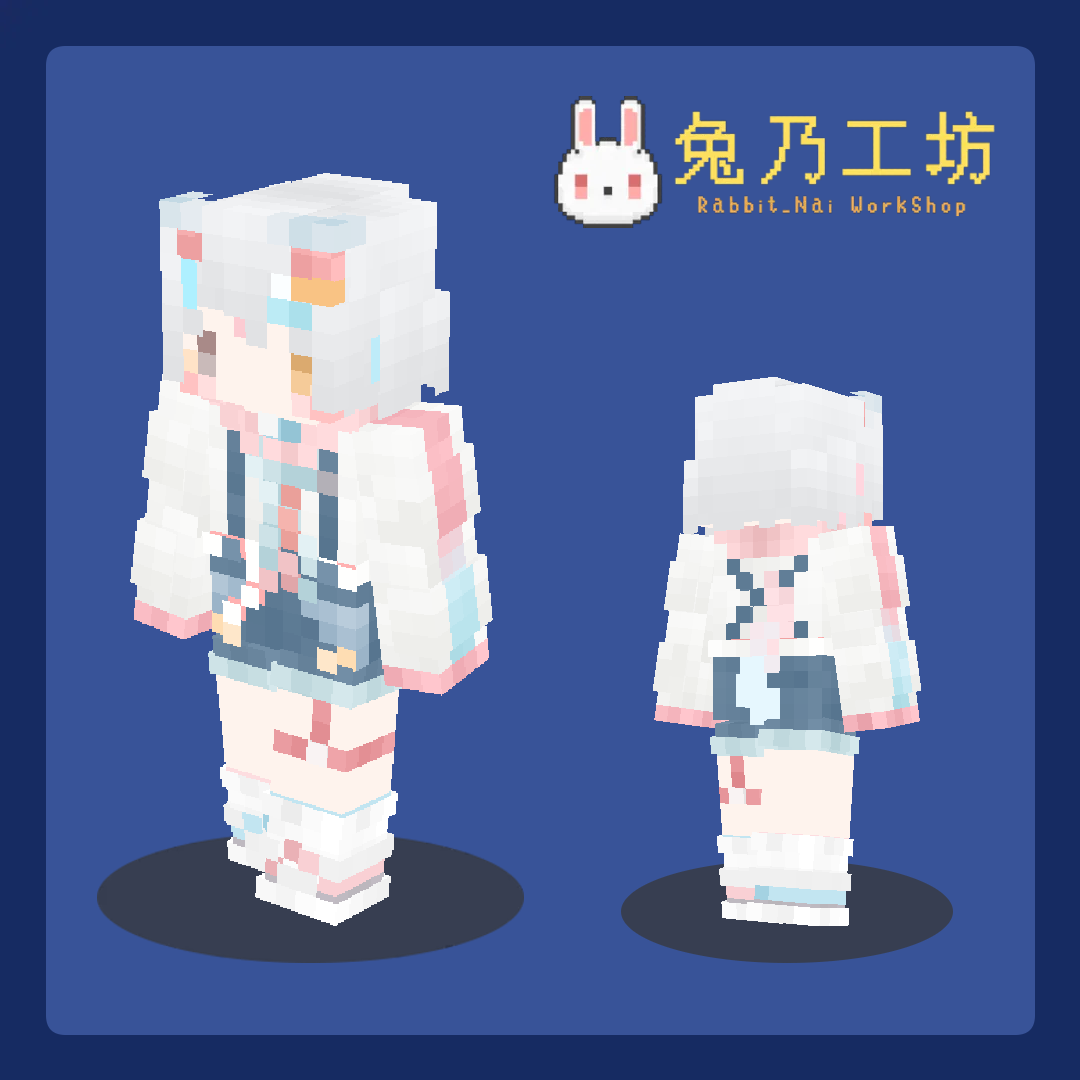
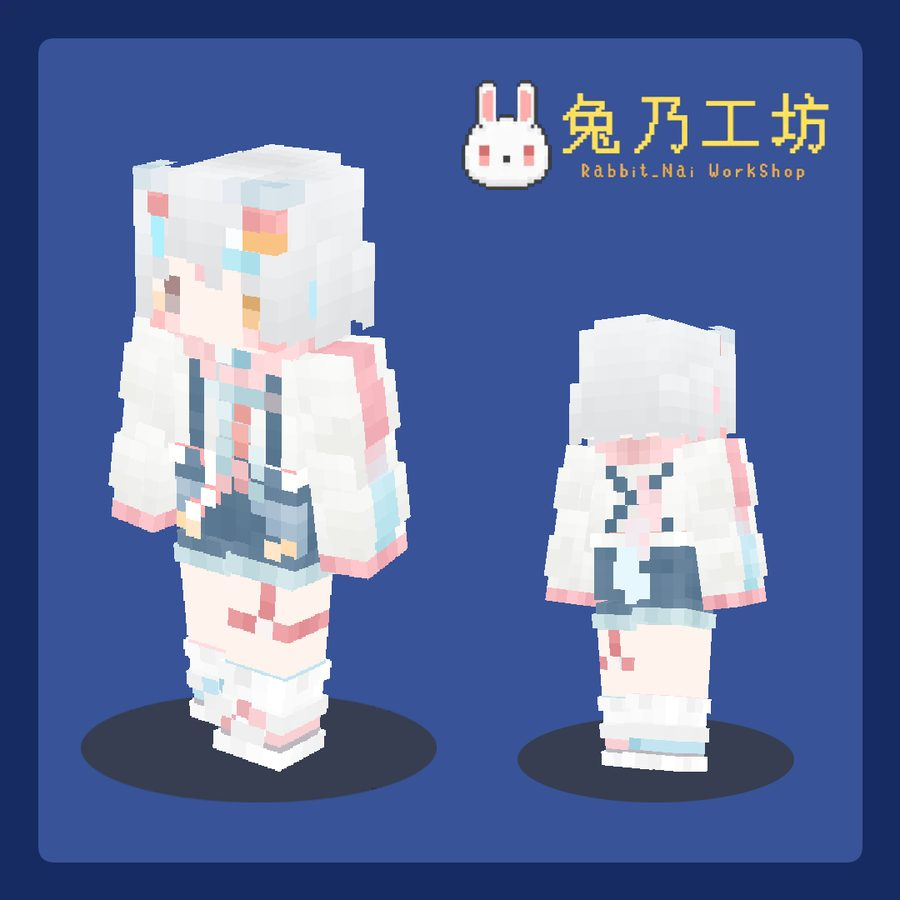
壓縮圖片、移除未使用圖片、加入延遲載入與圖片尺寸屬性

Changed region(s): [[0.6222, 0.0933, 0.9333, 0.2178]]

diff --git a/model.html b/model.html
@@ -28,7 +28,7 @@
 
 		<meta charset="utf-8" />
 		<meta name="viewport" content="width=device-width, initial-scale=1" />
-		<link rel="stylesheet" href="assets/css/main.css?v=20261102b" />
+		<link rel="stylesheet" href="assets/css/main.css?v=20261102d" />
 		<noscript><link rel="stylesheet" href="assets/css/noscript.css" /></noscript>
 		
 		<!-- Google tag (gtag.js) -->
@@ -70,14 +70,14 @@
 									<li><a href="#two" class="button small scrolly">常見問題</a></li>
 								</ul>
 								<h2> 作品展示</h2><hr>
-								<img alt="Minecraft Model 作品 1" src="images/model/preview1.jpg" width="350">
-								<img alt="Minecraft Model 作品 2" src="images/model/preview2.jpg" width="350">
-								<img alt="Minecraft Model 作品 3" src="images/model/preview3.jpg" width="350">
-								<img alt="Minecraft Model 作品 4" src="images/model/preview4.jpg" width="350">
-								<img alt="Minecraft Model 作品 5" src="images/model/preview5.jpg" width="350">
-								<img alt="Minecraft Model 作品 6" src="images/model/preview6.jpg" width="350">
-								<img alt="Minecraft Model 作品 7" src="images/model/preview7.jpg" width="350">
-								<img alt="Minecraft Model 作品 8" src="images/model/preview8.jpg" width="350">
+								<img alt="Minecraft Model 作品 1" src="images/model/preview1.jpg" width="350" height="352">
+								<img alt="Minecraft Model 作品 2" src="images/model/preview2.jpg" width="350" height="352">
+								<img alt="Minecraft Model 作品 3" src="images/model/preview3.jpg" width="350" height="352">
+								<img loading="lazy" decoding="async" alt="Minecraft Model 作品 4" src="images/model/preview4.jpg" width="350" height="352">
+								<img loading="lazy" decoding="async" alt="Minecraft Model 作品 5" src="images/model/preview5.jpg" width="350" height="352">
+								<img loading="lazy" decoding="async" alt="Minecraft Model 作品 6" src="images/model/preview6.jpg" width="350" height="352">
+								<img loading="lazy" decoding="async" alt="Minecraft Model 作品 7" src="images/model/preview7.jpg" width="350" height="352">
+								<img loading="lazy" decoding="async" alt="Minecraft Model 作品 8" src="images/model/preview8.jpg" width="350" height="352">
 							</div><hr>
 					
 					<!-- One -->
@@ -98,21 +98,21 @@
 								</thead>
 								<tbody>
 									<tr>
-										<td><img alt="Model 價格參考:像素" src="images/model/preview9.jpg" width="300" data-position="center center"></td>
+										<td><img loading="lazy" decoding="async" alt="Model 價格參考:像素" src="images/model/preview9.jpg" width="300" height="300" data-position="center center"></td>
 
 										<td>像素 </td>
 										<td> 200 ~ 400 </td>
-										<td><img alt="Model 價格參考:普通" src="images/model/preview10.jpg" width="300" data-position="center center" ></td>
+										<td><img loading="lazy" decoding="async" alt="Model 價格參考:普通" src="images/model/preview10.jpg" width="300" height="300" data-position="center center" ></td>
  
 										<td>普通 </td>
 										<td> 400 ~ 700 </td>
 									</tr>
 									<tr>
-										<td><img alt="Model 價格參考:高階" src="images/model/preview8.jpg" width="300" data-position="center center" ></td>
+										<td><img loading="lazy" decoding="async" alt="Model 價格參考:高階" src="images/model/preview8.jpg" width="300" height="302" data-position="center center" ></td>
 
 										<td>高階 </td>
 										<td> 700 ~ 1000 </td>
-										<td><img alt="Model 價格參考:仿現實" src="images/model/preview11.jpg" width="300" data-position="center center" ></td>
+										<td><img loading="lazy" decoding="async" alt="Model 價格參考:仿現實" src="images/model/preview11.jpg" width="300" height="300" data-position="center center" ></td>
 										
 										<td>仿現實 </td>
 										<td> 1000 ~ 1500</td>

diff --git a/skin.html b/skin.html
@@ -28,7 +28,7 @@
 
 		<meta charset="utf-8" />
 		<meta name="viewport" content="width=device-width, initial-scale=1" />
-		<link rel="stylesheet" href="assets/css/main.css?v=20261102b" />
+		<link rel="stylesheet" href="assets/css/main.css?v=20261102d" />
 		<noscript><link rel="stylesheet" href="assets/css/noscript.css" /></noscript>
 		
 		<!-- Google tag (gtag.js) -->
@@ -71,18 +71,18 @@
 									<li><a href="#two" class="button small scrolly">常見問題</a></li>
 								</ul>
 								<h2>作品展示</h2><hr>
-								<img alt="Minecraft Skin 作品 1" src="images/skin/preview1.jpg" width="350">
-								<img alt="Minecraft Skin 作品 2" src="images/skin/preview2.jpg" width="350">
-								<img alt="Minecraft Skin 作品 3" src="images/skin/preview3.jpg" width="350">
-								<img alt="Minecraft Skin 作品 4" src="images/skin/preview4.jpg" width="350">
-								<img alt="Minecraft Skin 作品 5" src="images/skin/preview5.jpg" width="350">
-								<img alt="Minecraft Skin 作品 6" src="images/skin/preview6.jpg" width="350">
-								<img alt="Minecraft Skin 作品 7" src="images/skin/preview7.jpg" width="350">
-								<img alt="Minecraft Skin 作品 8" src="images/skin/preview8.jpg" width="350">
-								<img alt="Minecraft Skin 作品 9" src="images/skin/preview9.jpg" width="350">
-								<img alt="Minecraft Skin 作品 10" src="images/skin/preview10.jpg" width="350">
-								<img alt="Minecraft Skin 作品 11" src="images/skin/preview11.jpg" width="350">
-								<img alt="Minecraft Skin 作品 12" src="images/skin/preview12.jpg" width="350">
+								<img alt="Minecraft Skin 作品 1" src="images/skin/preview1.jpg" width="350" height="350">
+								<img alt="Minecraft Skin 作品 2" src="images/skin/preview2.jpg" width="350" height="350">
+								<img alt="Minecraft Skin 作品 3" src="images/skin/preview3.jpg" width="350" height="350">
+								<img loading="lazy" decoding="async" alt="Minecraft Skin 作品 4" src="images/skin/preview4.jpg" width="350" height="350">
+								<img loading="lazy" decoding="async" alt="Minecraft Skin 作品 5" src="images/skin/preview5.jpg" width="350" height="350">
+								<img loading="lazy" decoding="async" alt="Minecraft Skin 作品 6" src="images/skin/preview6.jpg" width="350" height="350">
+								<img loading="lazy" decoding="async" alt="Minecraft Skin 作品 7" src="images/skin/preview7.jpg" width="350" height="350">
+								<img loading="lazy" decoding="async" alt="Minecraft Skin 作品 8" src="images/skin/preview8.jpg" width="350" height="350">
+								<img loading="lazy" decoding="async" alt="Minecraft Skin 作品 9" src="images/skin/preview9.jpg" width="350" height="350">
+								<img loading="lazy" decoding="async" alt="Minecraft Skin 作品 10" src="images/skin/preview10.jpg" width="350" height="350">
+								<img loading="lazy" decoding="async" alt="Minecraft Skin 作品 11" src="images/skin/preview11.jpg" width="350" height="350">
+								<img loading="lazy" decoding="async" alt="Minecraft Skin 作品 12" src="images/skin/preview12.jpg" width="350" height="350">
 							</div><hr>
 					
 					<!-- One -->

diff --git a/assets/css/main.css b/assets/css/main.css
@@ -3878,7 +3878,7 @@ input, select, textarea {
 	#intro {
 		background-attachment: fixed;
 		background-color: #212c4d;
-		background-image: url("images/intro.svg"),url("../../images/cover.png");
+		background-image: url("images/intro.svg"),url("../../images/cover.webp");
 		background-position: center center;
 		background-repeat: no-repeat;
 		background-size: auto;
@@ -3916,7 +3916,7 @@ input, select, textarea {
 #news {
 	background-attachment: scroll;
 	background-color: #212c4d;
-	background-image: url("images/intro.svg"),url("../../images/news.png");
+	background-image: url("images/intro.svg"),url("../../images/news.webp");
 	background-repeat: repeat;
 	background-size: auto ;
 	background-position: 80% -12%;
@@ -3945,3 +3945,9 @@ input, select, textarea {
 			opacity: 1;
 			transform: none;
 		}
+
+/* Images keep their ratio when width is capped (width/height attributes reserve space) */
+
+	#main img {
+		height: auto;
+	}

diff --git a/creature.html b/creature.html
@@ -28,7 +28,7 @@
 
 		<meta charset="utf-8" />
 		<meta name="viewport" content="width=device-width, initial-scale=1" />
-		<link rel="stylesheet" href="assets/css/main.css?v=20261102b" />
+		<link rel="stylesheet" href="assets/css/main.css?v=20261102d" />
 		<noscript><link rel="stylesheet" href="assets/css/noscript.css" /></noscript>
 		
 		<!-- Google tag (gtag.js) -->

diff --git a/index.html b/index.html
@@ -28,7 +28,7 @@
 
 		<meta charset="utf-8" />
 		<meta name="viewport" content="width=device-width, initial-scale=1" />
-		<link rel="stylesheet" href="assets/css/main.css?v=20261102b" />
+		<link rel="stylesheet" href="assets/css/main.css?v=20261102d" />
 		<noscript><link rel="stylesheet" href="assets/css/noscript.css" /></noscript>
 		
 		<!-- Google tag (gtag.js) -->

diff --git a/404.html b/404.html
@@ -6,7 +6,7 @@
 		<meta name="robots" content="noindex" />
 		<title>找不到頁面 | 兔乃工坊</title>
 		<link rel="Shortcut Icon" type="image/x-icon" href="/images/logo.png" />
-		<link rel="stylesheet" href="/assets/css/main.css?v=20261102b" />
+		<link rel="stylesheet" href="/assets/css/main.css?v=20261102d" />
 	</head>
 	<body>
 		<div id="wrapper">
